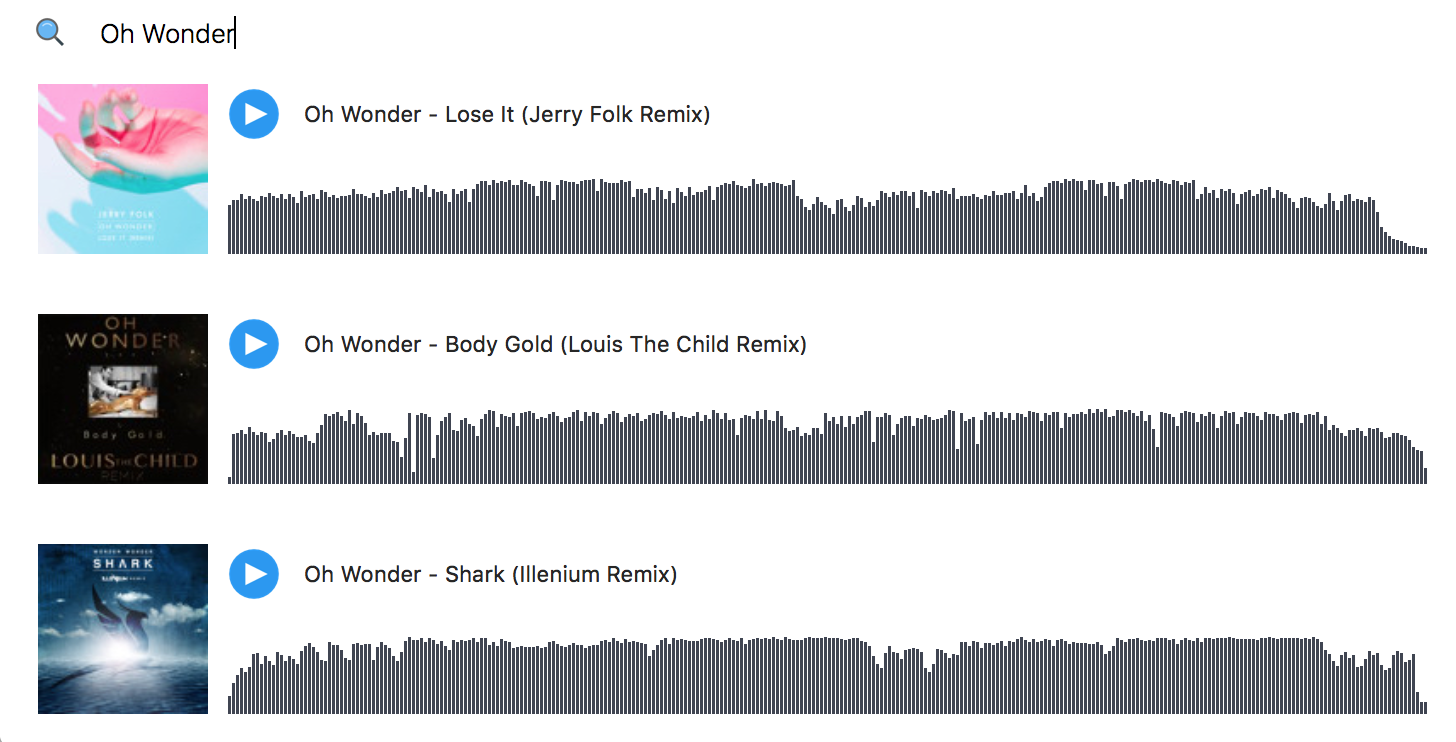
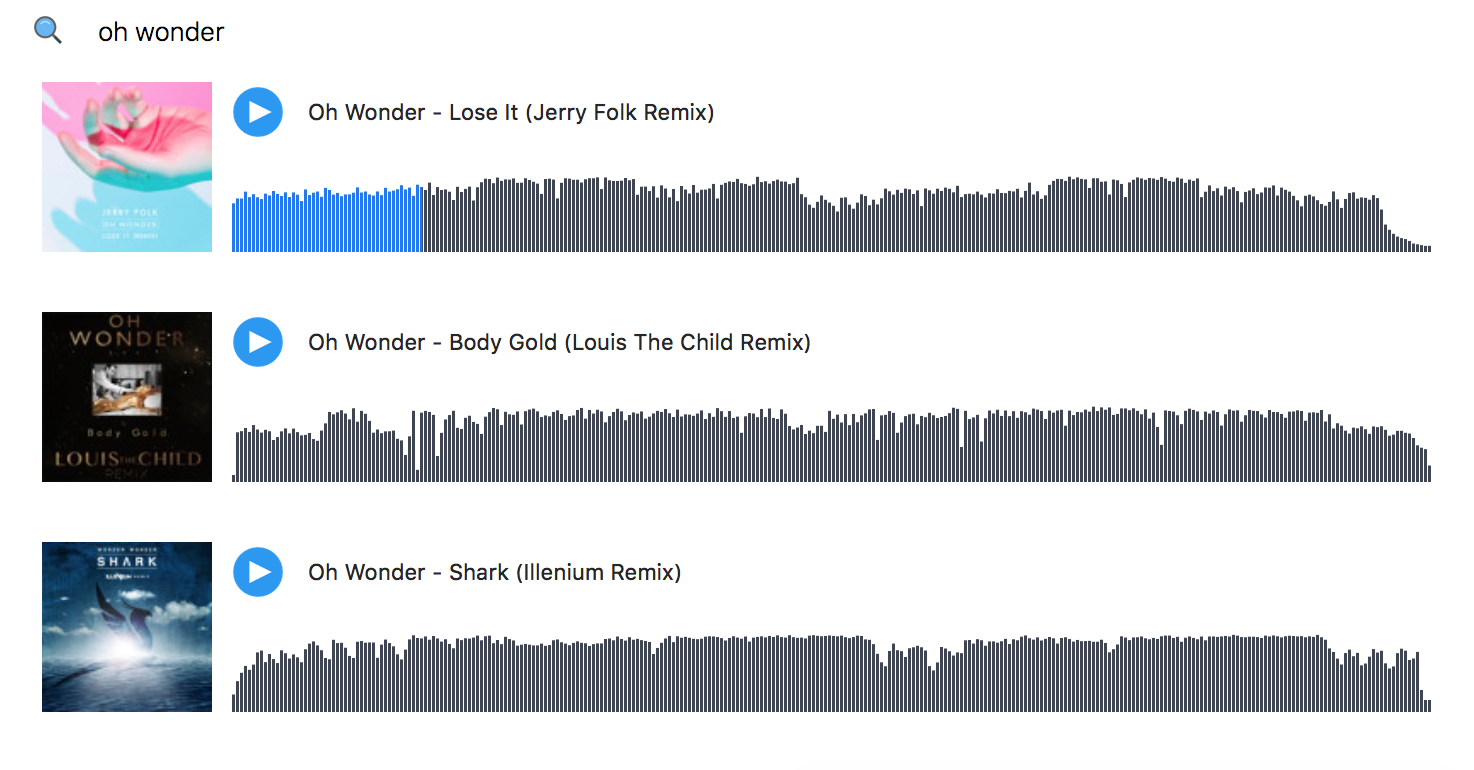
Add animated bar when playing track

diff --git a/Soundy/Views/Implementation/TrackCell.swift b/Soundy/Views/Implementation/TrackCell.swift
@@ -17,16 +17,77 @@ func xPositionForBar(at index: Int) -> Double {
 ///
 ///  - returns: Bar layer
 func barLayer(at index: Int, height: Double) -> CALayer {
+  let containerLayer = CALayer()
   let bar = CALayer()
-  bar.backgroundColor = Config.Track.barOffColor.cgColor
-  bar.frame = NSRect(
+  let onBar = CALayer()
+
+  bar.frame = CGRect(
     x: xPositionForBar(at: index),
     y: Double(bar.frame.origin.y),
     width: Config.Track.barWidth,
     height: height
   )
 
-  return bar
+  onBar.backgroundColor = Config.Track.barOnColor.cgColor
+  onBar.frame = bar.bounds
+
+  bar.backgroundColor = Config.Track.barOffColor.cgColor
+  bar.addSublayer(onBar)
+
+  return containerLayer
+}
+
+func barShapeLayer(forView view: NSView, waveform: Waveform) -> CALayer {
+  let layer = CAShapeLayer()
+  let path = NSBezierPath(rect: view.bounds)
+
+  layer.frame = view.bounds
+  layer.fillRule = kCAFillRuleEvenOdd
+
+  for i in (0 ..< waveform.barHeights.count) {
+    let bar = NSBezierPath(rect: CGRect(
+      x: xPositionForBar(at: i),
+      y: Double(view.bounds.origin.y),
+      width: Config.Track.barWidth,
+      height: waveform.barHeights[i]
+    ))
+
+    path.append(bar)
+  }
+
+  layer.path = path.cgPath
+
+  return layer
+}
+
+func barContainerLayer(forView view: NSView) -> CALayer {
+  let containerLayer = CALayer()
+  let offBackgroundLayer = CALayer()
+  let onBackgroundLayer = CALayer()
+  let frontContainerLayer = CALayer()
+
+  containerLayer.frame = view.bounds
+  offBackgroundLayer.backgroundColor = Config.Track.barOffColor.cgColor
+  offBackgroundLayer.frame = containerLayer.bounds
+
+  onBackgroundLayer.backgroundColor = Config.Track.barOnColor.cgColor
+  onBackgroundLayer.frame = CGRect(
+    x: -(containerLayer.bounds.midX),
+    y: -(containerLayer.bounds.midY),
+    width: containerLayer.bounds.size.width,
+    height: containerLayer.bounds.size.height
+  )
+  onBackgroundLayer.anchorPoint = CGPoint.zero
+  onBackgroundLayer.isHidden = true
+
+  frontContainerLayer.backgroundColor = NSColor.white.cgColor
+  frontContainerLayer.frame = containerLayer.bounds
+
+  containerLayer.addSublayer(offBackgroundLayer)
+  containerLayer.addSublayer(onBackgroundLayer)
+  containerLayer.addSublayer(frontContainerLayer)
+
+  return containerLayer
 }
 
 class TrackCell: NSCollectionViewItem {
@@ -40,10 +101,7 @@ class TrackCell: NSCollectionViewItem {
   override func awakeFromNib() {
     super.awakeFromNib()
     barContainerView.contentView!.wantsLayer = true
-
-    for i in 0..<300 {
-      barContainerView.contentView!.layer!.addSublayer(barLayer(at: i, height: 0))
-    }
+    barContainerView.contentView!.layer = barContainerLayer(forView: barContainerView.contentView!)
   }
 
   func setup(withViewModel viewModel: TrackViewModelType) {
@@ -68,17 +126,27 @@ class TrackCell: NSCollectionViewItem {
 
     playButton
       .rx.tap
-      .subscribe(onNext: viewModel.togglePlay)
+      .flatMap(viewModel.togglePlay)
+      .subscribe(onNext: animateBarWidth)
       .addDisposableTo(disposeBag)
   }
 
   func updateWaveformView(waveform: Waveform) {
-    let bars = barContainerView.contentView!.layer!.sublayers!
-
-    for i in 0..<waveform.barHeights.count {
-      bars[i].frame.size.height = CGFloat(waveform.barHeights[i])
-    }
+    let layer = barShapeLayer(forView: barContainerView.contentView!, waveform: waveform)
+    let barLayers = barContainerView.contentView!.layer!.sublayers!
+    barLayers.last!.mask = layer
 
     barContainerView.isHidden = false
+  }
+
+  func animateBarWidth(withDuration duration: Int) {
+    let onBarLayer = barContainerView.contentView!.layer!.sublayers![1]
+    let animation = CABasicAnimation(keyPath: "bounds.size.width")
+    animation.duration = Double(duration) / 1000
+    animation.fromValue = 0
+    animation.toValue = barContainerView.frame.size.width
+
+    onBarLayer.add(animation, forKey: nil)
+    onBarLayer.isHidden = false
   }
 }

diff --git a/Soundy/ViewModels/TrackViewModel.swift b/Soundy/ViewModels/TrackViewModel.swift
@@ -1,3 +1,4 @@
+import AppKit
 import Foundation
 import RxSwift
 import RxCocoa
@@ -6,9 +7,10 @@ protocol TrackViewModelType {
   var title: Driver<String> { get }
   var artworkURL: Driver<URL> { get }
   var waveformData: Driver<Waveform> { get }
+  var barAnimation: Driver<CABasicAnimation> { get }
 
-  func togglePlay()
-  func play()
+  func togglePlay() -> Driver<Int>
+  func play() -> Driver<Int>
   func pause()
   func stop()
 }
@@ -16,6 +18,9 @@ protocol TrackViewModelType {
 struct TrackViewModel: TrackViewModelType {
   let track: Variable<Track>
   let musicPlayer: MusicPlayer
+
+  // MARK: Input
+  private let _barAnimation = Variable<CABasicAnimation?>(nil)
 
   // MARK: Output
   var title: Driver<String> {
@@ -37,6 +42,13 @@ struct TrackViewModel: TrackViewModelType {
     }
   }
 
+  var barAnimation: Driver<CABasicAnimation> {
+    return _barAnimation
+      .asDriver()
+      .filter { $0 != nil }
+      .map { $0! }
+  }
+
    init(track: Track) {
     self.init(track: track, musicPlayer: AVMusicPlayer.sharedPlayer)
   }
@@ -46,12 +58,17 @@ struct TrackViewModel: TrackViewModelType {
     self.musicPlayer = musicPlayer
   }
 
-  func togglePlay() {
-    play()
+  func togglePlay() -> Driver<Int> {
+    return play()
   }
 
-  func play() {
-    musicPlayer.play(track: track.value)
+  func play() -> Driver<Int> {
+    return musicPlayer
+      .play(track: track.value)
+      .map {
+        self.track.value.duration
+      }
+      .asDriver(onErrorJustReturn: 0)
   }
 
   func pause() {

diff --git a/Soundy/Extensions/RxMoyaResponse.swift b/Soundy/Extensions/RxMoyaResponse.swift
@@ -92,7 +92,7 @@ extension ObservableType where E == Response {
   func map<T: Decodable>(
     _ type: T.Type,
     withRootKey rootKey: String
-    ) -> Observable<T> where T == T.DecodedType {
+  ) -> Observable<T> where T == T.DecodedType {
     return map {
       try $0.map(withRootKey: rootKey)
     }
@@ -101,7 +101,7 @@ extension ObservableType where E == Response {
   func mapArray<T: Decodable>(
     _ type: T.Type,
     withRootKey rootKey: String?
-    ) -> Observable<[T]> where T == T.DecodedType {
+  ) -> Observable<[T]> where T == T.DecodedType {
     return map {
       return try $0.mapArray(withRootKey: rootKey)
     }

diff --git a/Soundy/Config/Config.swift b/Soundy/Config/Config.swift
@@ -8,6 +8,6 @@ struct Config {
     static let barWidth = 1.5
     static let barRange = 0.5
     static let barOffColor = NSColor(hex: "#404552")
-    static let barOnColor = NSColor(hex: "#2196f3")
+    static let barOnColor = NSColor(hex: "#1a75f0")
   }
 }

diff --git a/README.md b/README.md
@@ -2,5 +2,5 @@
 
 Sound cloud status bar app. Still in active development.
 
-<img width="800" alt="Soundy screenshot" src="https://raw.githubusercontent.com/sendyhalim/Soundy/master/Resources/screenshot.png">
+<img width="1200" alt="Soundy screenshot" src="https://raw.githubusercontent.com/sendyhalim/Soundy/master/Resources/screenshot.png">
 
